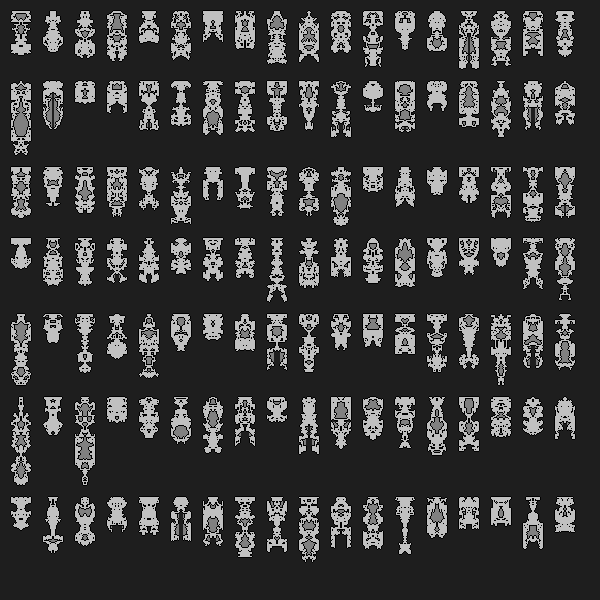
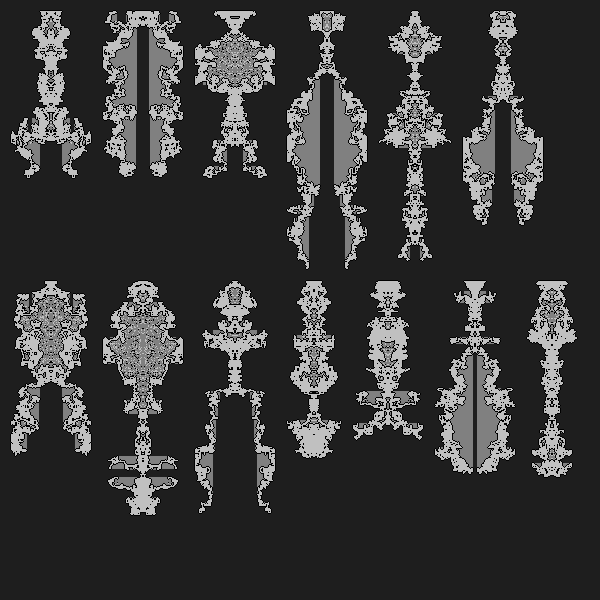
Added noise to flat areas

diff --git a/src/ajb/utils/PixelGridUtils.java b/src/ajb/utils/PixelGridUtils.java
@@ -3,6 +3,7 @@ package ajb.utils;
 import java.awt.Point;
 
 import ajb.domain.Pixel;
+import ajb.random.RandomInt;
 
 public class PixelGridUtils {
 
@@ -274,6 +275,75 @@ public class PixelGridUtils {
 
 					if (filledPixelAbove && filledPixelBelow && filledPixelOnTheLeft && filledPixelOnTheRight) {
 						grid[r][c].value = Pixel.SECONDARY;
+					}
+				}
+			}
+		}
+	}
+	
+	public static void addNoiseToFlatPixels(Pixel[][] grid) {
+
+		for (int r = 0; r < grid.length; r++) {
+			for (int c = 0; c < grid[0].length; c++) {
+
+				if (grid[r][c].value == Pixel.SECONDARY) {
+
+					boolean filledPixelAbove = false;
+					boolean filledPixelBelow = false;
+					boolean filledPixelOnTheLeft = false;
+					boolean filledPixelOnTheRight = false;
+
+					for (int r1 = r - 1; r1 > 0; r1--) {
+						if (grid[r1][c].value == Pixel.EMPTY) {
+							filledPixelAbove = false;
+							break;
+						} else if (grid[r1][c].value == Pixel.FILLED) {
+							filledPixelAbove = true;
+							break;
+						}
+					}
+
+					for (int r1 = r + 1; r1 < grid.length; r1++) {
+						if (grid[r1][c].value == Pixel.EMPTY) {
+							filledPixelBelow = false;
+							break;
+						} else if (grid[r1][c].value == Pixel.FILLED) {
+							filledPixelBelow = true;
+							break;
+						}
+					}
+
+					for (int c1 = c - 1; c1 > 0; c1--) {
+						if (grid[r][c1].value == Pixel.EMPTY) {
+							filledPixelOnTheLeft = false;
+							break;
+						} else if (grid[r][c1].value == Pixel.FILLED) {
+							filledPixelOnTheLeft = true;
+							break;
+						}
+					}
+
+					for (int c1 = c + 1; c1 < grid[0].length; c1++) {
+						if (grid[r][c1].value == Pixel.EMPTY) {
+							filledPixelOnTheLeft = false;
+							break;
+						} else if (grid[r][c1].value == Pixel.FILLED) {
+							filledPixelOnTheRight = true;
+							break;
+						}
+					}
+
+					if (filledPixelAbove && filledPixelBelow && filledPixelOnTheLeft && filledPixelOnTheRight) {
+						
+						grid[r][c].value = Pixel.TERTIARY;
+						
+						int random = RandomInt.anyRandomIntRange(1, 100);
+						
+						if (random < 10) {
+							grid[r][c].value = Pixel.BORDER;
+						} else if (random > 80) {
+							grid[r][c].value = Pixel.FILLED;
+						}
 					}
 				}
 			}

diff --git a/src/ajb/utils/ImageUtils.java b/src/ajb/utils/ImageUtils.java
@@ -17,7 +17,8 @@ import ajb.random.RandomColor;
 
 public class ImageUtils {
 
-	public static BufferedImage outputToImage(Pixel[][] grid, Color borderColor, Color primaryColor, Color secondaryColor, Color emptyColor) {
+	public static BufferedImage outputToImage(Pixel[][] grid, Color borderColor, Color primaryColor, Color secondaryColor,
+			Color tertiaryColor, Color emptyColor) {
 
 		GraphicsConfiguration gc = GraphicsEnvironment.getLocalGraphicsEnvironment().getDefaultScreenDevice().getDefaultConfiguration();
 
@@ -45,6 +46,14 @@ public class ImageUtils {
 			secondColor = RandomColor.anyRandomColor();
 		}
 
+		Color thirdColor = null;
+
+		if (tertiaryColor != null) {
+			thirdColor = tertiaryColor;
+		} else {
+			thirdColor = RandomColor.anyRandomColor();
+		}
+
 		for (int r = 0; r < grid.length; r++) {
 			for (int c = 0; c < grid[0].length; c++) {
 
@@ -67,6 +76,10 @@ public class ImageUtils {
 
 					gr.setColor(secondColor);
 					gr.fillRect(c * scaleFactor, r * scaleFactor, scaleFactor, scaleFactor);
+				} else if (grid[r][c].value == Pixel.TERTIARY) {
+
+					gr.setColor(thirdColor);
+					gr.fillRect(c * scaleFactor, r * scaleFactor, scaleFactor, scaleFactor);
 				} else if (grid[r][c].value == Pixel.EMPTY) {
 
 					if (emptyColor != null) {
@@ -83,7 +96,7 @@ public class ImageUtils {
 	}
 
 	public static BufferedImage outputAllToImage(List<Pixel[][]> grids, int width, int height, Color borderColor, Color primaryColor,
-			Color secondaryColor, Color emptyColor) {
+			Color secondaryColor, Color tertiaryColor, Color emptyColor) {
 
 		GraphicsConfiguration gc = GraphicsEnvironment.getLocalGraphicsEnvironment().getDefaultScreenDevice().getDefaultConfiguration();
 
@@ -103,7 +116,7 @@ public class ImageUtils {
 
 		for (Pixel[][] grid : grids) {
 
-			BufferedImage vesselImg = outputToImage(grid, borderColor, primaryColor, secondaryColor, emptyColor);
+			BufferedImage vesselImg = outputToImage(grid, borderColor, primaryColor, secondaryColor, tertiaryColor, emptyColor);
 
 			if (x + (vesselImg.getWidth() + 10) > width) {
 				x = 10;

diff --git a/examples/ajb/examples/CreateImageFullOfVessels.java b/examples/ajb/examples/CreateImageFullOfVessels.java
@@ -21,9 +21,9 @@ public class CreateImageFullOfVessels {
 		List<Pixel[][]> grids = new ArrayList<Pixel[][]>();
 
 		factory.ROWS = 500; // height
-		factory.COLS = 10; // width
-		factory.STEPS = 8; // how many iterations
-		factory.SUB_STEPS = 100; // how many steps within each iteration
+		factory.COLS = 40; // width
+		factory.STEPS = 20; // how many iterations
+		factory.SUB_STEPS = 300; // how many steps within each iteration
 
 		// create a 100 vessels and add to our list
 		for (int i = 0; i < 500; i++) {
@@ -35,16 +35,18 @@ public class CreateImageFullOfVessels {
 			grid = PixelGridUtils.addBorders(grid);
 			grid = PixelGridUtils.floor(grid);
 			PixelGridUtils.fillEmptySurroundedPixelsInGrid(grid);
+			PixelGridUtils.addNoiseToFlatPixels(grid);
 
 			// add grid to list
 			grids.add(grid);
 		}
 
 		Color primaryColor = Color.LIGHT_GRAY; // Color.decode("#7FB347");
-		Color secondaryColor = Color.GRAY; // Color.decode("#5eaa47");
+		Color secondaryColor = Color.GRAY; //Color.decode("#5eaa47");
+		Color tertiaryColor = Color.GRAY;
 
 		// create image
-		BufferedImage img = ImageUtils.outputAllToImage(grids, 600, 600, null, primaryColor, secondaryColor, null);
+		BufferedImage img = ImageUtils.outputAllToImage(grids, 600, 600, null, primaryColor, secondaryColor, tertiaryColor, null);
 
 		// save image
 		// replace with the path of wherever you want the image to go - if left

diff --git a/examples/ajb/examples/CreateDirectoryFullOfVessels.java b/examples/ajb/examples/CreateDirectoryFullOfVessels.java
@@ -32,7 +32,7 @@ public class CreateDirectoryFullOfVessels {
 			grid = PixelGridUtils.extendGrid(grid, 8);
 			PixelGridUtils.fillEmptySurroundedPixelsInGrid(grid);
 			
-			BufferedImage img = ImageUtils.outputToImage(grid, null, Color.decode("#79ABFF"), Color.decode("#79ABFF"), null);
+			BufferedImage img = ImageUtils.outputToImage(grid, null, Color.decode("#79ABFF"), Color.decode("#79ABFF"), null, null);
 			
 			// i.e. c://<directory>//<directory>//<file name prefix>
 			ImageUtils.save(img, "png", "<directory path and file name prefix here - must already exist>" + i);

diff --git a/src/ajb/domain/Pixel.java b/src/ajb/domain/Pixel.java
@@ -6,6 +6,7 @@ public class Pixel {
 	public static final int FILLED = 1;
 	public static final int BORDER = 2;
 	public static final int SECONDARY = 3;
+	public static final int TERTIARY = 4;
 
 	public int value = EMPTY;
 
